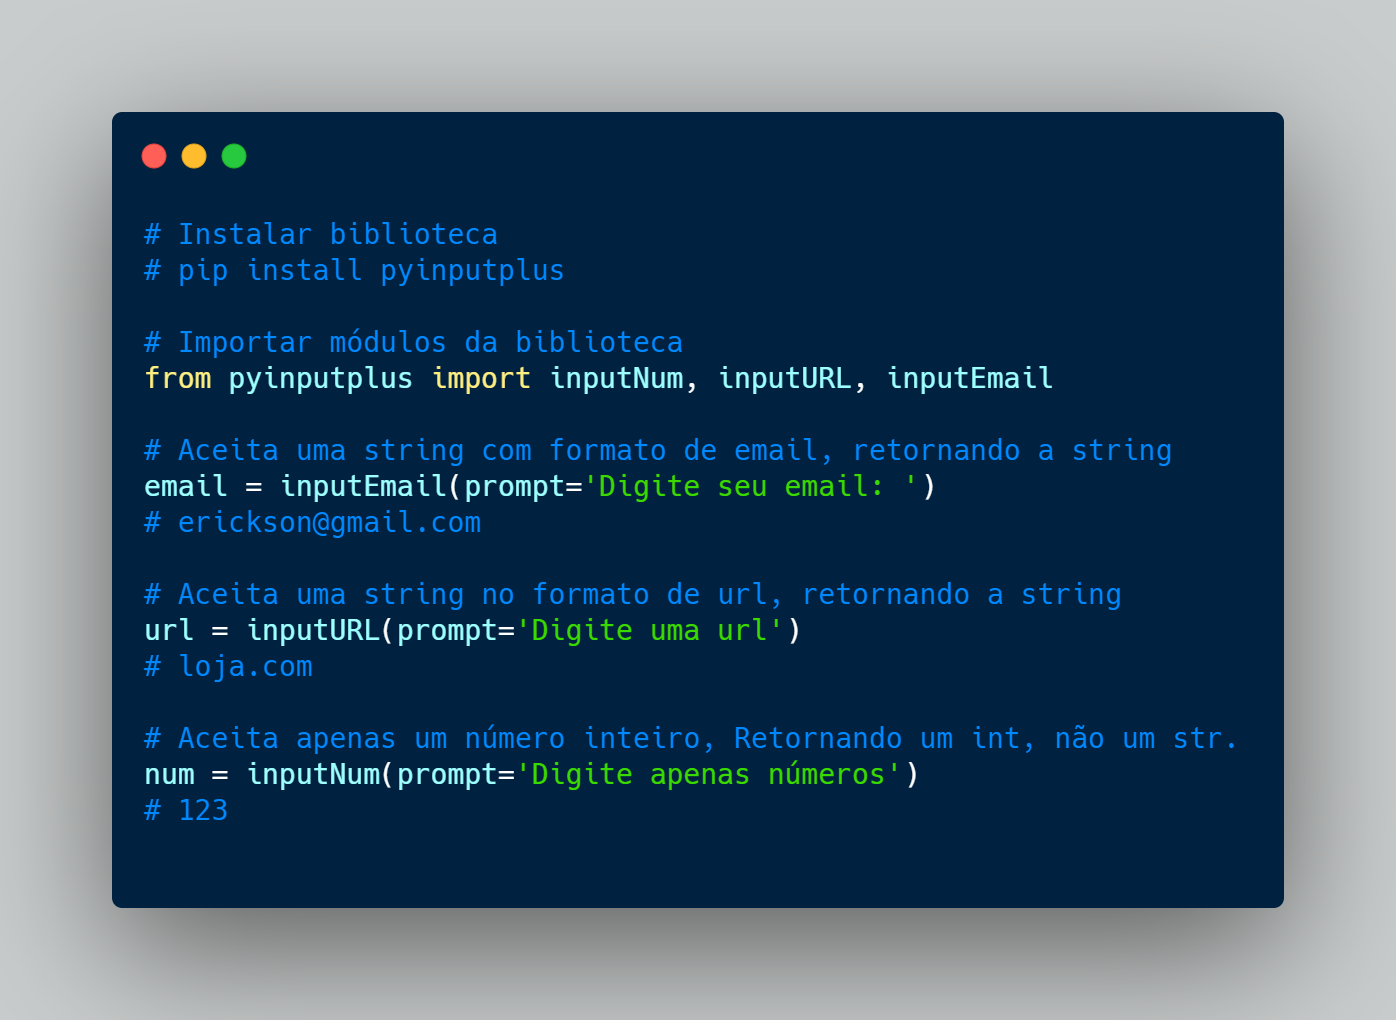
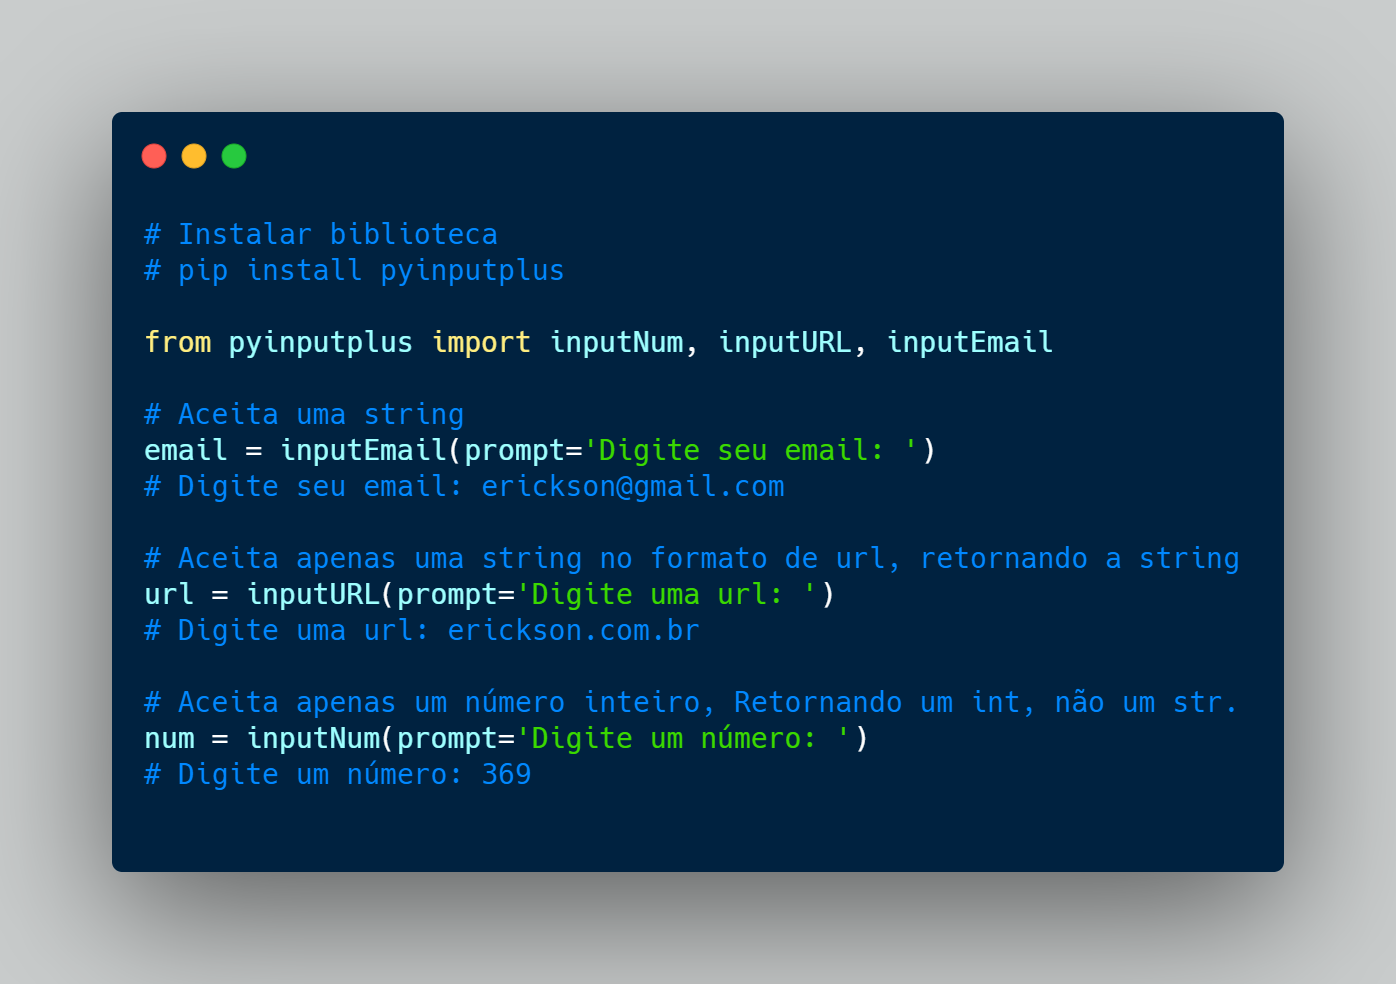
Finalizando 11

diff --git a/11_PyInputPlus/PyInputPlus_teste.py b/11_PyInputPlus/PyInputPlus_teste.py
@@ -5,15 +5,15 @@ from pyinputplus import inputNum, inputURL, inputEmail
 
 # Aceita uma string
 email = inputEmail(prompt='Digite seu email: ')
-# erickson@gmail.com
+# Digite seu email: erickson@gmail.com
 
 # Aceita apenas uma string no formato de url, retornando a string
-url = inputURL(prompt='Digite uma url')
-# loja.com
+url = inputURL(prompt='Digite uma url: ')
+# Digite uma url: erickson.com.br
 
 # Aceita apenas um número inteiro, Retornando um int, não um str.
-num = inputNum(prompt='Digite apenas números')
-# 123
+num = inputNum(prompt='Digite um número: ')
+# Digite um número: 369
 
 
 # OUTROS TESTES
